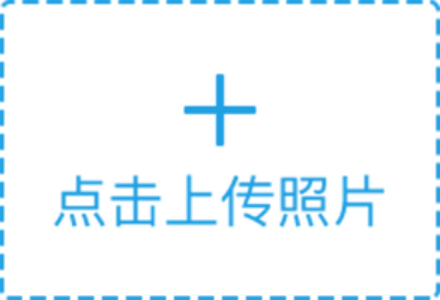
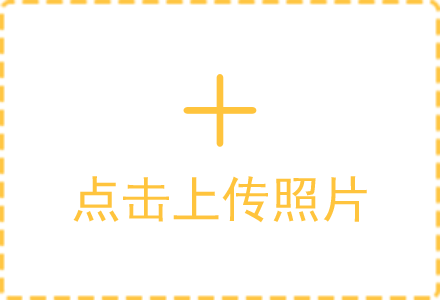
修改颜色

Changed region(s): [[0.0, 0.0, 1.0, 1.0], [0.1182, 0.57, 0.8864, 0.78], [0.4136, 0.24, 0.5909, 0.51]]

diff --git a/pages/index/index.less b/pages/index/index.less
@@ -8,8 +8,11 @@
   height: 88rpx;
   border-radius: 44rpx;
   border: none;
-  background: #3fbef1;
+  background: #ffc43d;
   color: #ffffff;
+}
+.container {
+  background: #ffffff;
 }
 
 .page-section {
@@ -46,7 +49,7 @@
   transition: 500;
 
   .nav {
-    background: #3fbef1;
+    background: #ffc43d;
     color: #eeeeee;
     height: 123rpx;
     line-height: 123rpx;
@@ -59,7 +62,6 @@
     .nava {
       color: #ffffff;
     }
-
   }
 
   .select {
@@ -115,16 +117,16 @@
     }
 
     &.navAct {
-      color: #3fbef1;
+      color: #ffc43d;
     }
   }
 }
 
 .navA {
-  color: #3fbef1;
+  color: #ffc43d;
 
   .navb {
-    border-bottom: solid #3fbef1 4rpx;
+    border-bottom: solid #ffc43d 4rpx;
     display: inline-block;
     line-height: 80rpx;
     padding: 0 6rpx;
@@ -156,8 +158,8 @@
         margin: 0 50rpx;
 
         &.active {
-          color: #3fbef1;
-          border-bottom: solid 1rpx #3fbef1;
+          color: #ffc43d;
+          border-bottom: solid 1rpx #ffc43d;
         }
       }
     }
@@ -218,8 +220,8 @@
 
         text {
           font-size: 16rpx;
-          background: #3fbef1;
-          color: #fff;
+          background: #ffc43d;
+          color: #000000;
           padding: 4rpx;
           border-radius: 20rpx;
         }
@@ -503,7 +505,7 @@
             content: "去登录";
             font-size: 68rpx;
             border: none;
-            background-color: #3fbef1;
+            background-color: #ffc43d;
             color: #ffffff;
             border-radius: 0;
           }

diff --git a/pages/index/index.css b/pages/index/index.css
@@ -8,8 +8,11 @@
   height: 88rpx;
   border-radius: 44rpx;
   border: none;
-  background: #3fbef1;
+  background: #ffc43d;
   color: #ffffff;
+}
+.container {
+  background: #ffffff;
 }
 .page-section {
   width: 100%;
@@ -39,7 +42,7 @@
   transition: 500;
 }
 .content .nav {
-  background: #3fbef1;
+  background: #ffc43d;
   color: #eeeeee;
   height: 123rpx;
   line-height: 123rpx;
@@ -95,13 +98,13 @@
   margin-top: -4rpx;
 }
 .select view.navAct {
-  color: #3fbef1;
+  color: #ffc43d;
 }
 .navA {
-  color: #3fbef1;
+  color: #ffc43d;
 }
 .navA .navb {
-  border-bottom: solid #3fbef1 4rpx;
+  border-bottom: solid #ffc43d 4rpx;
   display: inline-block;
   line-height: 80rpx;
   padding: 0 6rpx;
@@ -131,8 +134,8 @@
   margin: 0 50rpx;
 }
 .section-wrap .section scroll-view view.active {
-  color: #3fbef1;
-  border-bottom: solid 1rpx #3fbef1;
+  color: #ffc43d;
+  border-bottom: solid 1rpx #ffc43d;
 }
 .newList {
   padding: 0 35rpx;
@@ -179,8 +182,8 @@
 }
 .newList .userMsg .username .address text {
   font-size: 16rpx;
-  background: #3fbef1;
-  color: #fff;
+  background: #ffc43d;
+  color: #000000;
   padding: 4rpx;
   border-radius: 20rpx;
 }
@@ -423,7 +426,7 @@
   content: "去登录";
   font-size: 68rpx;
   border: none;
-  background-color: #3fbef1;
+  background-color: #ffc43d;
   color: #ffffff;
   border-radius: 0;
 }

diff --git a/pages/detail/detail.less b/pages/detail/detail.less
@@ -40,7 +40,7 @@
 
                 text {
                     font-size: 16rpx;
-                    background: #3fbef1;
+                    background: #ffc43d;
                     color: #fff;
                     padding: 4rpx;
                     border-radius: 20rpx;
@@ -118,10 +118,11 @@
             }
 
             image {
-                width: 36rpx;
-                height: 36rpx;
+                width: 48rpx;
+                height: 48rpx;
                 vertical-align: middle;
                 margin-right: 10rpx;
+                margin-top: -10rpx;
             }
         }
     }
@@ -185,7 +186,7 @@
                         content: "去登录";
                         font-size: 68rpx;
                         border: none;
-                        background-color: #3fbef1;
+                        background-color: #ffc43d;
                         color: #ffffff;
                         border-radius: 0;
                     }

diff --git a/pages/userCenter/userCenter.less b/pages/userCenter/userCenter.less
@@ -10,8 +10,9 @@
         text-align: center;
         width: 680rpx;
         height: 216rpx;
-        background: linear-gradient(-5deg, rgba(30, 160, 227, 1), rgba(50, 181, 238, 1), rgba(53, 188, 240, 1));
-        box-shadow: 0px 5px 13px 2px rgba(49, 180, 238, 0.3);
+        // background: linear-gradient(-5deg, rgba(255,236,61,1), rgba(255,200,50,1), rgba(255,180,50,1));
+        background: #feca52;
+        box-shadow: 0px 5px 13px 2px rgba(255, 200, 50, 0.3);
         border-radius: 5px;
 
         button {
@@ -292,7 +293,7 @@
                         content: "去登录";
                         font-size: 68rpx;
                         border: none;
-                        background-color: #3fbef1;
+                        background-color: #ffc43d;
                         color: #ffffff;
                         border-radius: 0;
                     }

diff --git a/pages/detail/detail.css b/pages/detail/detail.css
@@ -35,7 +35,7 @@
 }
 .wrap .userMsg .username .address text {
   font-size: 16rpx;
-  background: #3fbef1;
+  background: #ffc43d;
   color: #fff;
   padding: 4rpx;
   border-radius: 20rpx;
@@ -98,10 +98,11 @@
   border-right: solid 1rpx #d3d3d3;
 }
 .wrap .bottom .left image {
-  width: 36rpx;
-  height: 36rpx;
+  width: 48rpx;
+  height: 48rpx;
   vertical-align: middle;
   margin-right: 10rpx;
+  margin-top: -10rpx;
 }
 .loginMask-close {
   display: none;
@@ -156,7 +157,7 @@
   content: "去登录";
   font-size: 68rpx;
   border: none;
-  background-color: #3fbef1;
+  background-color: #ffc43d;
   color: #ffffff;
   border-radius: 0;
 }

diff --git a/pages/userCenter/userCenter.css b/pages/userCenter/userCenter.css
@@ -7,8 +7,8 @@
   text-align: center;
   width: 680rpx;
   height: 216rpx;
-  background: linear-gradient(-5deg, #1ea0e3, #32b5ee, #35bcf0);
-  box-shadow: 0px 5px 13px 2px rgba(49, 180, 238, 0.3);
+  background: #feca52;
+  box-shadow: 0px 5px 13px 2px rgba(255, 200, 50, 0.3);
   border-radius: 5px;
 }
 .myCenter .userBg button {
@@ -245,7 +245,7 @@
   content: "去登录";
   font-size: 68rpx;
   border: none;
-  background-color: #3fbef1;
+  background-color: #ffc43d;
   color: #ffffff;
   border-radius: 0;
 }

diff --git a/pages/mySupply/mySupply.less b/pages/mySupply/mySupply.less
@@ -156,8 +156,8 @@
                 margin: 0 30rpx;
 
                 &.active {
-                    color: #27a6e6;
-                    border-bottom: solid 1rpx #27a6e6;
+                    color: #ffc43d;
+                    border-bottom: solid 1rpx #ffc43d;
                 }
             }
         }
@@ -168,7 +168,7 @@
     margin: 35rpx;
 
     &::after {
-        background: #27a6e6;
+        background: #ffc43d;
         content: "确认信息";
         font-size: 68rpx;
     }

diff --git a/pages/supply/supply.less b/pages/supply/supply.less
@@ -139,8 +139,8 @@
         margin: 0 30rpx;
 
         &.active {
-          color: #27a6e6;
-          border-bottom: solid 1rpx #27a6e6;
+          color: #ffc43d;
+          border-bottom: solid 1rpx #ffc43d;
         }
       }
     }
@@ -151,7 +151,7 @@
   margin: 35rpx;
 
   &::after {
-    background: #27a6e6;
+    background: #ffc43d;
     content: "确认信息";
     font-size: 68rpx;
   }

diff --git a/pages/mySupply/mySupply.css b/pages/mySupply/mySupply.css
@@ -135,14 +135,14 @@
   margin: 0 30rpx;
 }
 .fenlei .section scroll-view view.active {
-  color: #27a6e6;
-  border-bottom: solid 1rpx #27a6e6;
+  color: #ffc43d;
+  border-bottom: solid 1rpx #ffc43d;
 }
 .save {
   margin: 35rpx;
 }
 .save::after {
-  background: #27a6e6;
+  background: #ffc43d;
   content: "确认信息";
   font-size: 68rpx;
 }

diff --git a/pages/supply/supply.css b/pages/supply/supply.css
@@ -120,14 +120,14 @@
   margin: 0 30rpx;
 }
 .fenlei .section scroll-view view.active {
-  color: #27a6e6;
-  border-bottom: solid 1rpx #27a6e6;
+  color: #ffc43d;
+  border-bottom: solid 1rpx #ffc43d;
 }
 .save {
   margin: 35rpx;
 }
 .save::after {
-  background: #27a6e6;
+  background: #ffc43d;
   content: "确认信息";
   font-size: 68rpx;
 }

diff --git a/pages/myRelease/myRelease.less b/pages/myRelease/myRelease.less
@@ -12,8 +12,8 @@
 
         &.btn {
             text {
-                color: #32B5EE;
-                border-bottom: solid 2rpx #32B5EE;
+                color: #ffc43d;
+                border-bottom: solid 2rpx #ffc43d;
             }
 
         }

diff --git a/pages/myRelease/myRelease.css b/pages/myRelease/myRelease.css
@@ -11,8 +11,8 @@
   text-align: center;
 }
 .menu view.btn text {
-  color: #32B5EE;
-  border-bottom: solid 2rpx #32B5EE;
+  color: #ffc43d;
+  border-bottom: solid 2rpx #ffc43d;
 }
 .menu view text {
   display: inline-block;
